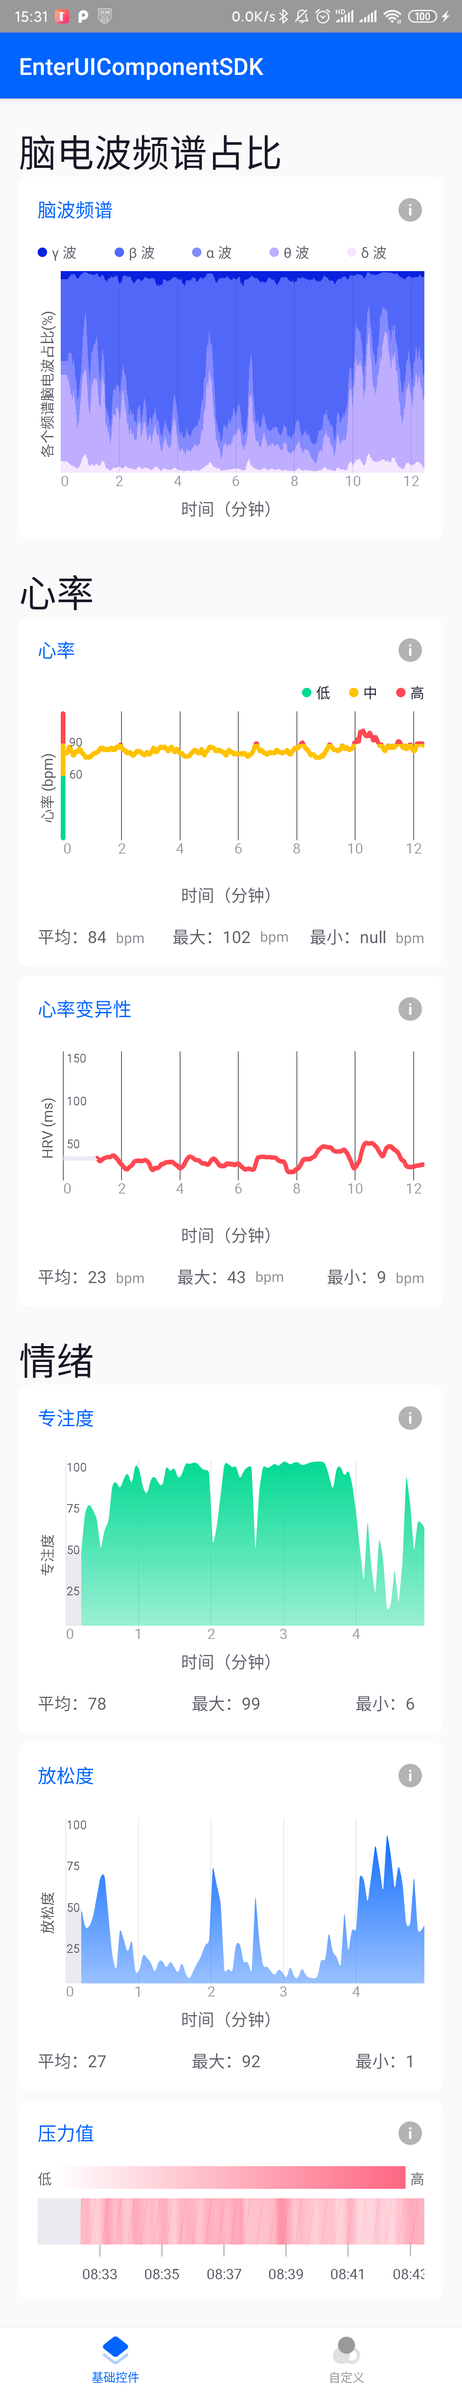
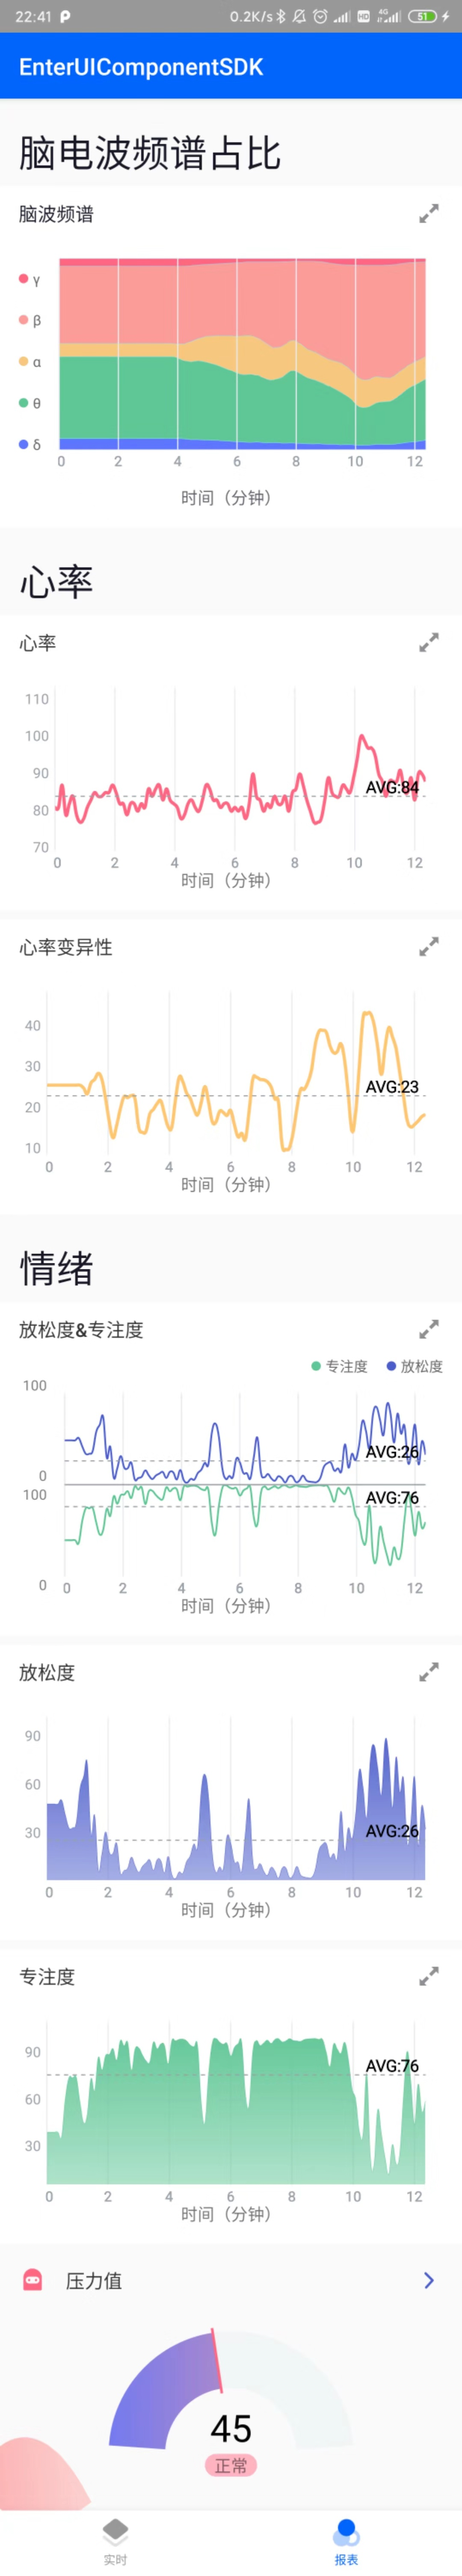
demo 优化

diff --git a/app/src/main/java/cn/entertech/componentdemo/ReportDefaultFragment.kt b/app/src/main/java/cn/entertech/componentdemo/ReportDefaultFragment.kt
@@ -7,14 +7,8 @@ import android.view.LayoutInflater
 import android.view.View
 import android.view.ViewGroup
 import cn.entertech.uicomponentsdk.report.file.ReportFileHelper
-import kotlinx.android.synthetic.main.fragment_report_custom.*
 import kotlinx.android.synthetic.main.fragment_report_default.*
-import kotlinx.android.synthetic.main.fragment_report_default.report_attention
-import kotlinx.android.synthetic.main.fragment_report_default.report_brainwave_spectrum
-import kotlinx.android.synthetic.main.fragment_report_default.report_heart_rate
-import kotlinx.android.synthetic.main.fragment_report_default.report_hrv
 import kotlinx.android.synthetic.main.fragment_report_default.report_pressure
-import kotlinx.android.synthetic.main.fragment_report_default.report_relaxation
 import java.util.*
 import kotlin.collections.ArrayList
 
@@ -32,38 +26,34 @@ class ReportDefaultFragment : Fragment() {
 
         var reportFileHelper = ReportFileHelper.getInstance(activity!!)
         var reportData = reportFileHelper.readReportFile("sample")
-        var startTime = reportData.startTime
-//        affective view
-
-//        report_attention.setData(reportData.reportAttentionEnitty?.attentionRec)
-
 
         var testData = ArrayList<Double>()
-        for (i in 0 .. 500){
-            testData.add(Random().nextDouble()*100)
+        for (i in 0..500) {
+            testData.add(Random().nextDouble() * 100)
         }
-//        report_attention.setData( reportData.reportAttentionEnitty?.attentionRec)
-        report_attention.setData(testData)
-        Log.d("####","attention rec size:"+reportData.reportAttentionEnitty?.attentionRec?.size)
-//        report_relaxation.setData(reportData.reportRelaxationEnitty?.relaxationRec)
+        chart_relaxation_and_attention.setAttentionAverage( reportData.reportAttentionEnitty?.attentionRec!!.average().toInt())
+        chart_relaxation_and_attention.setRelaxationAverage( reportData.reportRelaxationEnitty?.relaxationRec!!.average().toInt())
+        chart_relaxation_and_attention.setData( reportData.reportAttentionEnitty?.attentionRec, reportData.reportRelaxationEnitty?.relaxationRec)
+        chart_relaxation.setAverage(reportData.reportRelaxationEnitty?.relaxationRec!!.average().toInt())
+        chart_attention.setAverage(reportData.reportAttentionEnitty?.attentionRec!!.average().toInt())
+        chart_relaxation.setData(reportData.reportRelaxationEnitty?.relaxationRec)
+        chart_attention.setData(reportData.reportAttentionEnitty?.attentionRec)
+        var spectrumList = listOf<List<Double>>(
+            reportData.reportEEGDataEntity!!.gammaCurve!!,
+            reportData.reportEEGDataEntity!!.betaCurve!!,
+            reportData.reportEEGDataEntity!!.alphaCurve!!,
+            reportData.reportEEGDataEntity!!.thetaCurve!!,
+            reportData.reportEEGDataEntity!!.deltaCurve!!
+        )
+        chart_brainwave.setData(
+            spectrumList
+        )
+        chart_hr.setAverage(reportData.reportHRDataEntity?.hrAvg!!.toInt())
+        chart_hr.setData(reportData.reportHRDataEntity?.hrRec)
 
-//        brainwave spectrum view
+        chart_hrv.setAverage(reportData.reportHRDataEntity?.hrvAvg!!.toInt())
+        chart_hrv.setData(reportData.reportHRDataEntity?.hrvRec)
 
-//        report_brainwave_spectrum.setBrainwaveSpectrums(
-//            startTime!!,
-//            reportData.reportEEGDataEntity?.gammaCurve,
-//            reportData.reportEEGDataEntity?.betaCurve,
-//            reportData.reportEEGDataEntity?.alphaCurve,
-//            reportData.reportEEGDataEntity?.thetaCurve,
-//            reportData.reportEEGDataEntity?.deltaCurve
-//        )
-
-        report_heart_rate.setData(reportData.reportHRDataEntity?.hrRec)
-
-//        report_hrv.setData(startTime!!, reportData.reportHRDataEntity?.hrvRec, reportData.reportHRDataEntity?.hrvAvg)
-        report_hrv.setData(reportData.reportHRDataEntity?.hrvRec)
-
-        report_pressure.setData(startTime!!, reportData.reportPressureEnitty?.pressureRec)
-        Log.d("###","attention size:"+reportData.reportAttentionEnitty?.attentionRec!!.size+"::heart size is "+reportData.reportHRDataEntity?.hrRec!!.size)
+        report_pressure.setValue(reportData.reportPressureEnitty?.pressureAvg!!.toInt())
     }
 }

diff --git a/uicomponentsdk/src/main/java/cn/entertech/uicomponentsdk/report/ReportLineChartCard.kt b/uicomponentsdk/src/main/java/cn/entertech/uicomponentsdk/report/ReportLineChartCard.kt
@@ -37,6 +37,7 @@ import com.github.mikephil.charting.data.LineData
 import com.github.mikephil.charting.data.LineDataSet
 import com.github.mikephil.charting.formatter.ValueFormatter
 import com.github.mikephil.charting.interfaces.datasets.ILineDataSet
+import com.github.mikephil.charting.utils.Utils
 import kotlinx.android.synthetic.main.layout_common_card_title.view.*
 import kotlinx.android.synthetic.main.layout_card_attention.view.*
 import kotlinx.android.synthetic.main.layout_card_attention.view.chart
@@ -56,6 +57,7 @@ class ReportLineChartCard @JvmOverloads constructor(
     defStyleAttr: Int = 0, layoutId: Int? = null
 ) : LinearLayout(context, attributeSet, defStyleAttr) {
 
+    private var mIsDrawFill: Boolean = false
     private var mAverageValue: Int = 0
     private var mXAxisUnit: String? = "Time(min)"
     private var mLineWidth: Float = 1.5f
@@ -130,6 +132,7 @@ class ReportLineChartCard @JvmOverloads constructor(
         mLineWidth =
             typeArray.getDimension(R.styleable.ReportLineChartCard_rlcc_lineWidth, mLineWidth)
         mXAxisUnit = typeArray.getString(R.styleable.ReportLineChartCard_rlcc_xAxisUnit)
+        mIsDrawFill = typeArray.getBoolean(R.styleable.ReportLineChartCard_rlcc_isDrawFill,false)
         initView()
     }
 
@@ -258,7 +261,7 @@ class ReportLineChartCard @JvmOverloads constructor(
             values.add(Entry(i.toFloat(), sampleData[i].toFloat()))
         }
 
-        val set1: LineDataSet
+        var set1: LineDataSet
 
         if (chart.data != null && chart.data.dataSetCount > 0) {
             set1 = chart.data.getDataSetByIndex(0) as LineDataSet
@@ -280,7 +283,6 @@ class ReportLineChartCard @JvmOverloads constructor(
             // line thickness and point size
             set1.lineWidth = mLineWidth
 //            set1.circleRadius = 3f
-
             // draw points as solid circles
             set1.setDrawCircleHole(false)
 
@@ -296,18 +298,34 @@ class ReportLineChartCard @JvmOverloads constructor(
 //            set1.enableDashedHighlightLine(10f, 5f, 0f)
             // set the filled area
             set1.setDrawHighlightIndicators(false)
-            set1.setDrawFilled(false)
+            set1.setDrawFilled(mIsDrawFill)
+            set1.fillAlpha = 255
             set1.setDrawCircles(false)
             set1.setMode(LineDataSet.Mode.CUBIC_BEZIER)
-            // set color of filled area
-//            if (Utils.getSDKInt() >= 18) {
-//                // drawables only supported on api level 18 and above
-//                val drawable =
-//                    ContextCompat.getDrawable(context, R.drawable.shape_affective_chart_fill)
-//                set1.fillDrawable = drawable
-//            } else {
-//                set1.fillColor = Color.GREEN
-//            }
+            if (mIsDrawFill){
+                // set color of filled area
+                if (Utils.getSDKInt() >= 18) {
+                    // drawables only supported on api level 18 and above
+                var gradientDrawable =  GradientDrawable()
+
+                // Set the color array to draw gradient
+                    gradientDrawable.setColors(intArrayOf(mLineColor, getOpacityColor(mLineColor,0.5F)))
+
+                // Set the GradientDrawable gradient type linear gradient
+                    gradientDrawable.setGradientType(GradientDrawable.LINEAR_GRADIENT)
+
+                // Set GradientDrawable shape is a rectangle
+                    gradientDrawable.setShape(GradientDrawable.RECTANGLE)
+                    set1.fillDrawable = gradientDrawable
+                } else {
+                    set1.fillColor = mLineColor
+                }
+                set1.lineWidth = 0f
+                set1.setDrawFilled(true)
+            }else{
+                set1.setDrawFilled(false)
+                set1.lineWidth = mLineWidth
+            }
 
             val dataSets = ArrayList<ILineDataSet>()
             dataSets.add(set1) // add the data sets

diff --git a/app/src/main/java/cn/entertech/componentdemo/RealtimeDefaultFragment.kt b/app/src/main/java/cn/entertech/componentdemo/RealtimeDefaultFragment.kt
@@ -6,6 +6,8 @@ import android.view.LayoutInflater
 import android.view.View
 import android.view.ViewGroup
 import kotlinx.android.synthetic.main.fragment_default.*
+import java.util.*
+import kotlin.collections.ArrayList
 
 
 class RealtimeDefaultFragment : Fragment() {
@@ -21,7 +23,28 @@ class RealtimeDefaultFragment : Fragment() {
         super.onViewCreated(view, savedInstanceState)
         attention_tip1.showDisconnectTip()
         attention_tip2.showLoading()
-        brainwave_view.showDisconnectTip()
-        brainwave_view.hideDisconnectTip()
+        realtime_brainwave_spectrum.setDeltaWavePercent(0.2f)
+        realtime_brainwave_spectrum.setAlphaWavePercent(0.5f)
+        realtime_brainwave_spectrum.setThetaWavePercent(0.1f)
+        realtime_brainwave_spectrum.setGammaWavePercent(0.02f)
+        realtime_brainwave_spectrum.setBetaWavePercent(0.18f)
+        var timer = Timer()
+        var timerTask:TimerTask = object: TimerTask() {
+            override fun run() {
+                activity!!.runOnUiThread {
+                    var leftBrainwave = ArrayList<Double>()
+                    var rightBrainwave = ArrayList<Double>()
+                    for (i in 0..99) {
+                        leftBrainwave.add(Random().nextDouble() * 100)
+                        rightBrainwave.add(Random().nextDouble() * 100)
+                    }
+                    realtime_hrv.appendHrv(Random().nextDouble() * 50)
+                    brainwave_view.setRightBrainwave(rightBrainwave)
+                    brainwave_view.setLeftBrainwave(leftBrainwave)
+                }
+            }
+
+        }
+        timer.schedule(timerTask,0,400)
     }
 }

diff --git a/app/src/main/java/cn/entertech/componentdemo/ChartDemoActivity.kt b/app/src/main/java/cn/entertech/componentdemo/ChartDemoActivity.kt
@@ -13,11 +13,11 @@ class ChartDemoActivity : AppCompatActivity() {
         super.onCreate(savedInstanceState)
         setContentView(R.layout.activity_chart_demo)
 
-//        var data = ArrayList<Double>()
-//        for (i in 0..1000){
-//            data.add(Random().nextDouble()*100)
-//        }
-//        line_chart.setData(data)
+        var data = ArrayList<Double>()
+        for (i in 0..1000){
+            data.add(Random().nextDouble()*100)
+        }
+        line_chart.setData(data)
 //        realtime_coherence.setCoherence(50f)
 //        average_bar.setValues(listOf(100,20,30,40,50,30,90))
 //        var timer = Timer()

diff --git a/uicomponentsdk/src/main/java/cn/entertech/uicomponentsdk/realtime/HRVSurfaceView.java b/uicomponentsdk/src/main/java/cn/entertech/uicomponentsdk/realtime/HRVSurfaceView.java
@@ -216,7 +216,7 @@ public class HRVSurfaceView extends SurfaceView implements SurfaceHolder.Callbac
     public void onDrawSampleData(Canvas canvas) {
         float pointOffset = getWidth() * 1f / (sampleData.size() - 1);
         //获得canvas对象
-        canvas.translate(mLeftPadding, getHeight() / 2);
+        canvas.translate(mLeftPadding + mYAxisMargin, getHeight());
         float time = (getHeight() / mMaxValue);
         Path path = new Path();
         for (int i = 0; i < sampleData.size(); i++) {
@@ -269,6 +269,7 @@ public class HRVSurfaceView extends SurfaceView implements SurfaceHolder.Callbac
     public void setSampleData(List<Double> sampleData) {
         this.sampleData = sampleData;
         this.isShowSampleData = true;
+        invalidate();
     }
 
     public void setLineColor(int color) {
